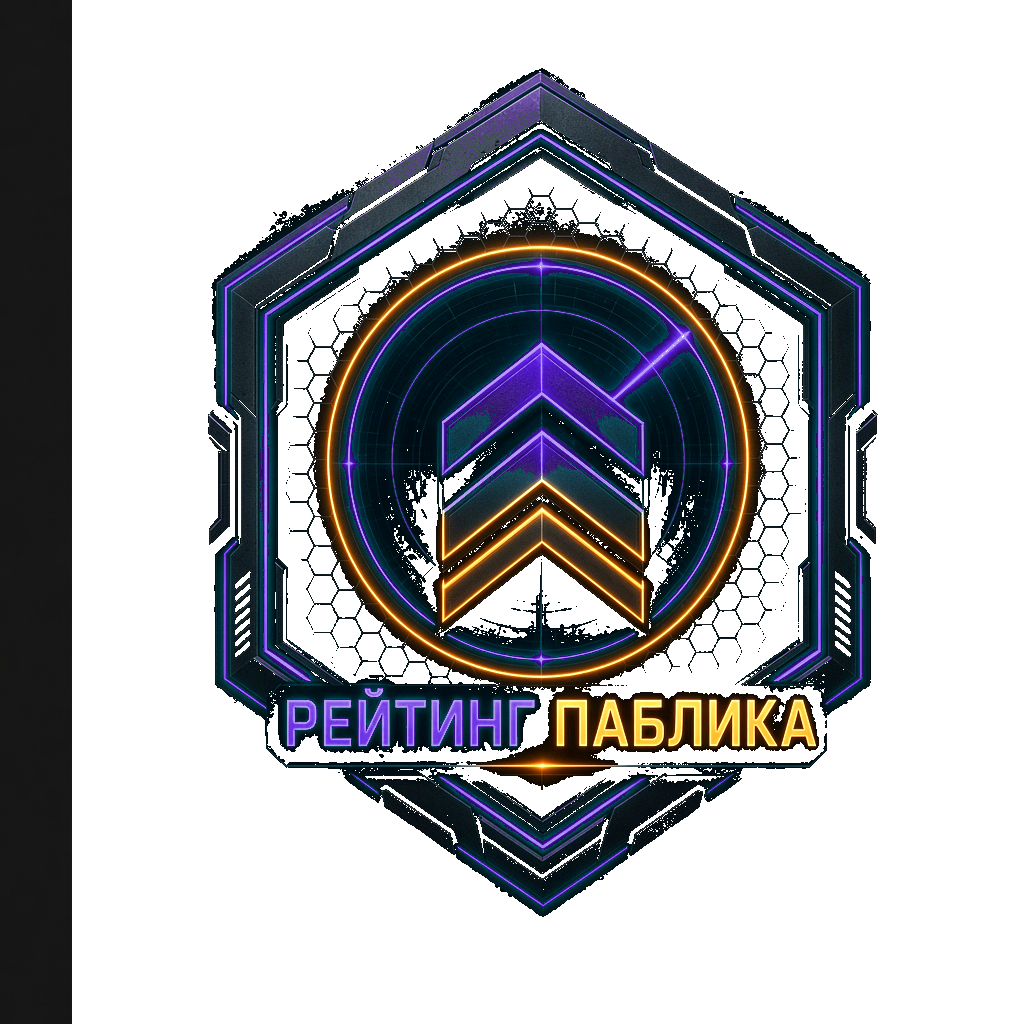
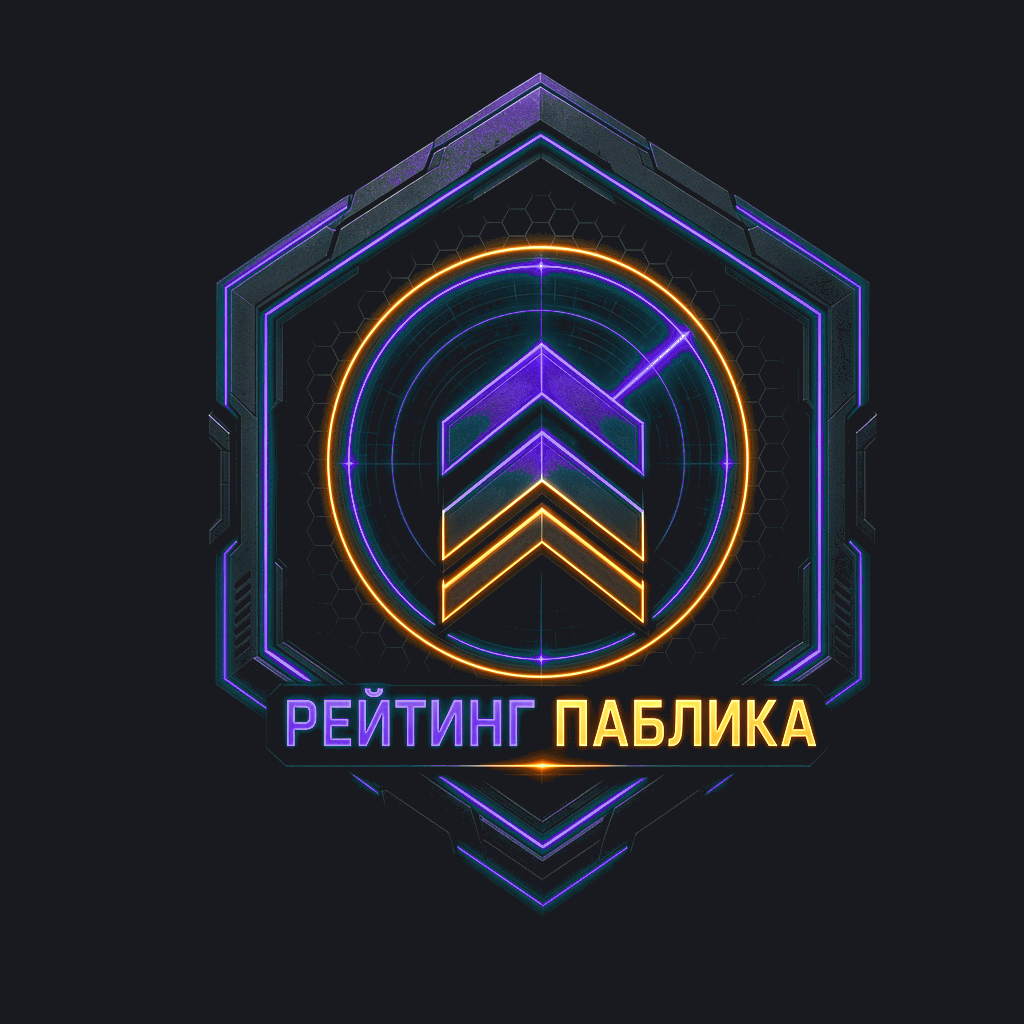
Use soft charcoal behind hub shields and enlarge emblems.
Drop the purple plate wash so metal frames stay visible, bake a muted black fill into the tile art, and scale emblems up.

diff --git a/src/app/globals.css b/src/app/globals.css
@@ -22545,20 +22545,20 @@ body:has(.not-found-page) .site-footer-note {
   position: absolute;
   inset: 0;
   z-index: 0;
+  /* soft charcoal — not deep black, no purple wash */
   background:
-    radial-gradient(120% 90% at 50% 18%, rgba(167, 139, 250, 0.28), transparent 58%),
-    radial-gradient(90% 80% at 80% 88%, rgba(217, 70, 239, 0.12), transparent 55%),
-    linear-gradient(165deg, rgba(28, 18, 48, 0.92) 0%, rgba(12, 8, 22, 0.96) 100%);
-  box-shadow: inset 0 1px 0 rgba(255, 255, 255, 0.06);
+    radial-gradient(115% 85% at 50% 20%, rgba(48, 52, 62, 0.55), transparent 62%),
+    linear-gradient(165deg, #1c1e26 0%, #14161c 100%);
+  box-shadow: inset 0 1px 0 rgba(255, 255, 255, 0.05);
 }
 
 .home-hub-tile:hover,
 .home-hub-tile:focus-visible {
   transform: translateY(-2px) scale(1.012);
-  border-color: rgba(167, 139, 250, 0.58);
+  border-color: rgba(167, 139, 250, 0.5);
   box-shadow:
-    0 0 0 1px rgba(167, 139, 250, 0.22),
-    0 16px 32px rgba(76, 29, 149, 0.38);
+    0 0 0 1px rgba(167, 139, 250, 0.18),
+    0 16px 32px rgba(0, 0, 0, 0.45);
   outline: none;
 }
 
@@ -22568,8 +22568,8 @@ body:has(.not-found-page) .site-footer-note {
   z-index: 1;
   background-position: center;
   background-repeat: no-repeat;
-  background-size: 108%;
-  filter: contrast(1.08) saturate(1.1) brightness(1.06);
+  background-size: 132%;
+  filter: contrast(1.12) saturate(1.08) brightness(1.04);
   pointer-events: none;
 }
 

diff --git a/src/components/HomeHub.tsx b/src/components/HomeHub.tsx
@@ -52,7 +52,7 @@ export function HomeHub({ showCw, cwCards }: Props) {
             <span
               className="home-hub-tile-art"
               aria-hidden="true"
-              style={{ backgroundImage: `url(${tile.image}?v=plate3)` }}
+              style={{ backgroundImage: `url(${tile.image}?v=plate4)` }}
             />
           </Link>
         ))}

diff --git a/docs/CHANGELOG.md b/docs/CHANGELOG.md
@@ -1,3 +1,9 @@
+## v. 1.2.147 — 05.11.2026 · Хаб: угольный фон щита + крупнее
+
+Внутри плитки — мягкий уголь вместо фиолетовой заливки; эмблемы крупнее (масштаб ~132%).
+
+---
+
 ## v. 1.2.146 — 05.11.2026 · Хаб: чёткие эмблемы плиток
 
 Пересобрали PNG без полупрозрачных линий: контраст и насыщенность выше, рамки и иконки читаются на плите.
